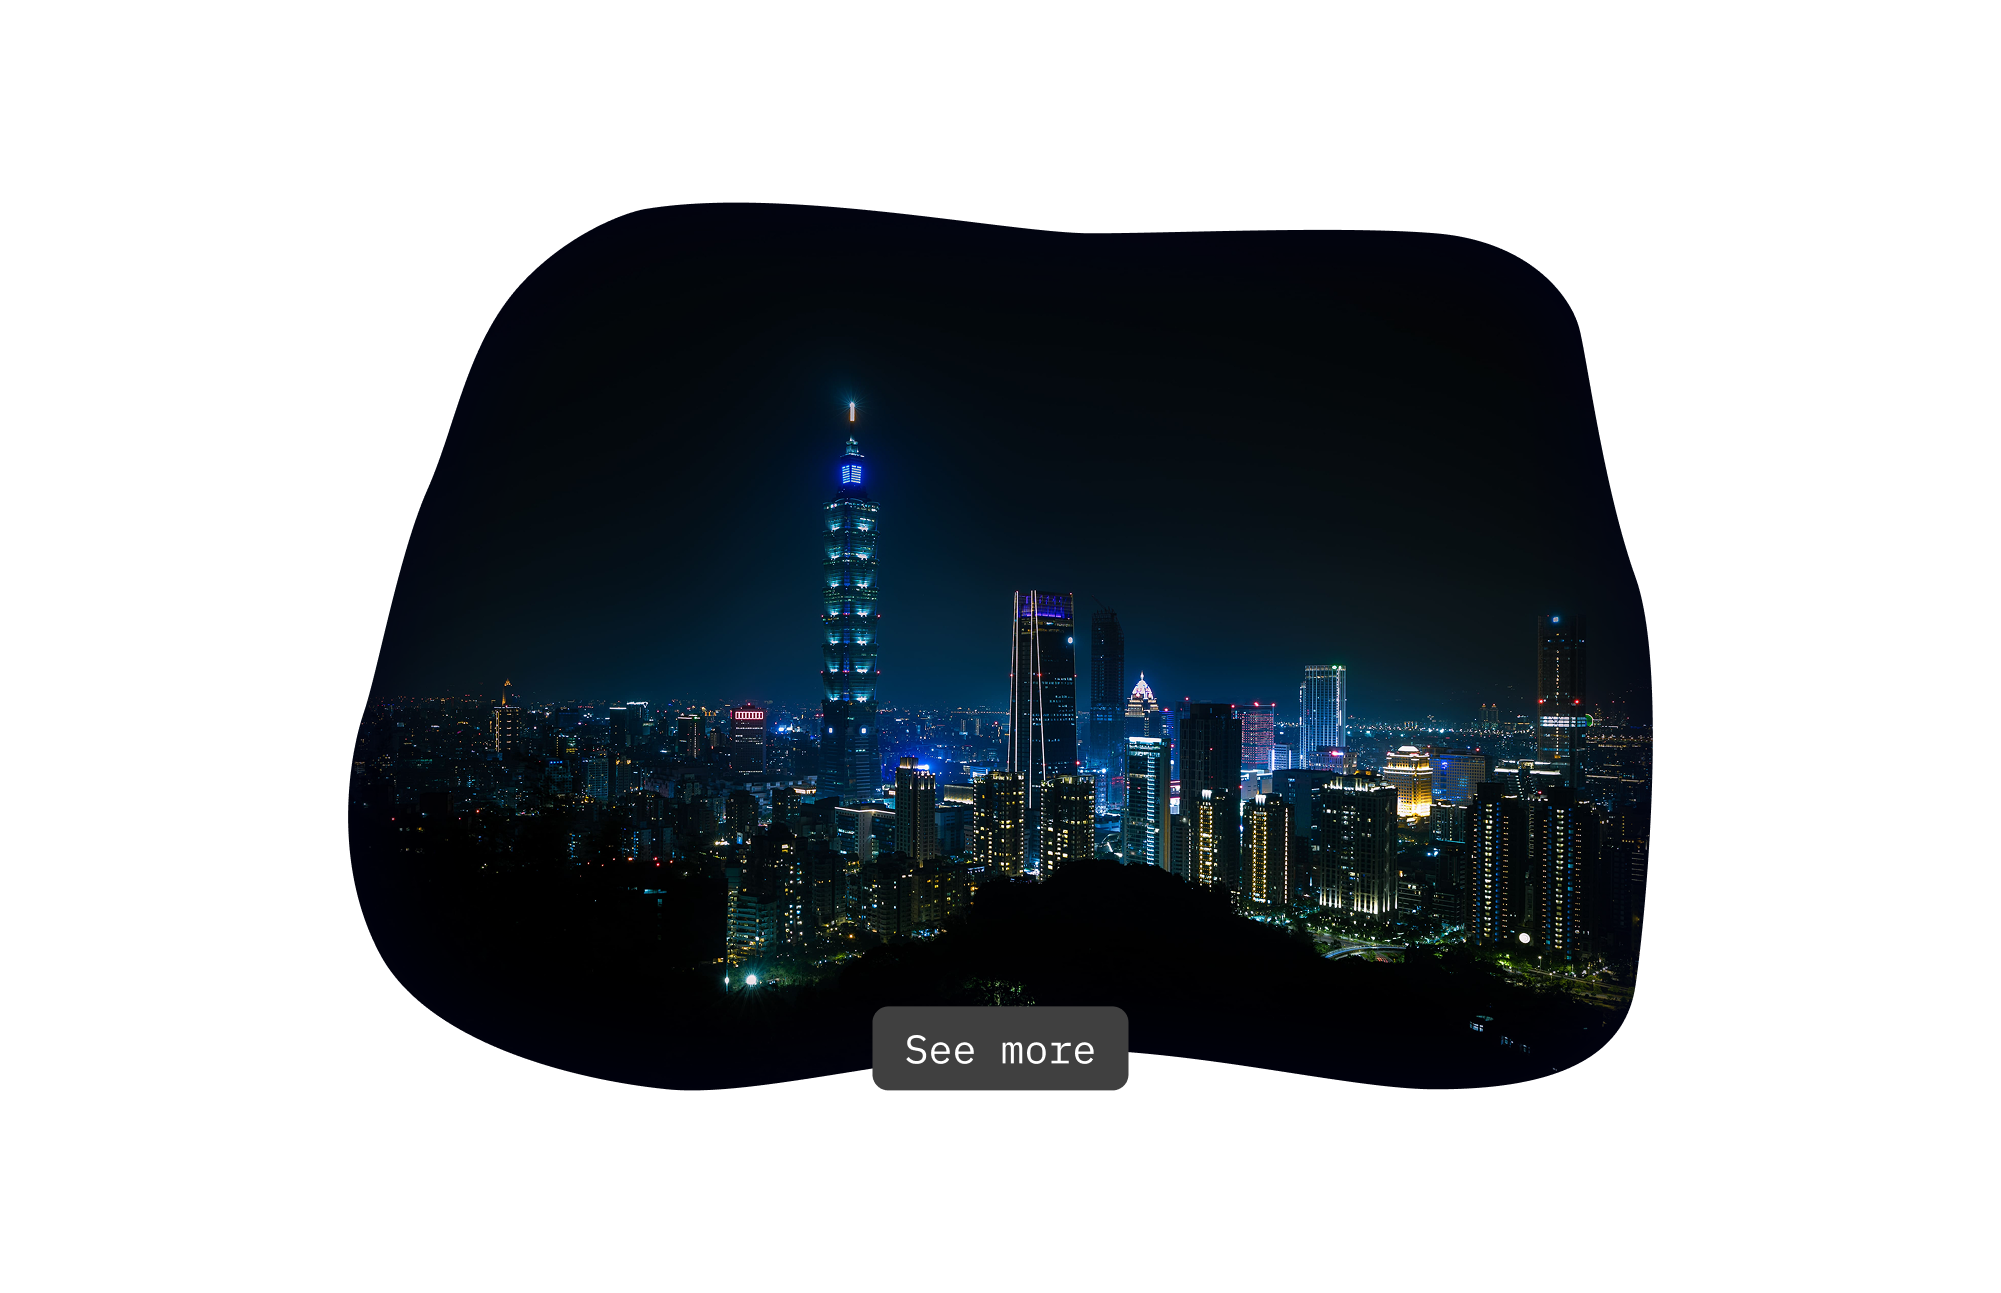
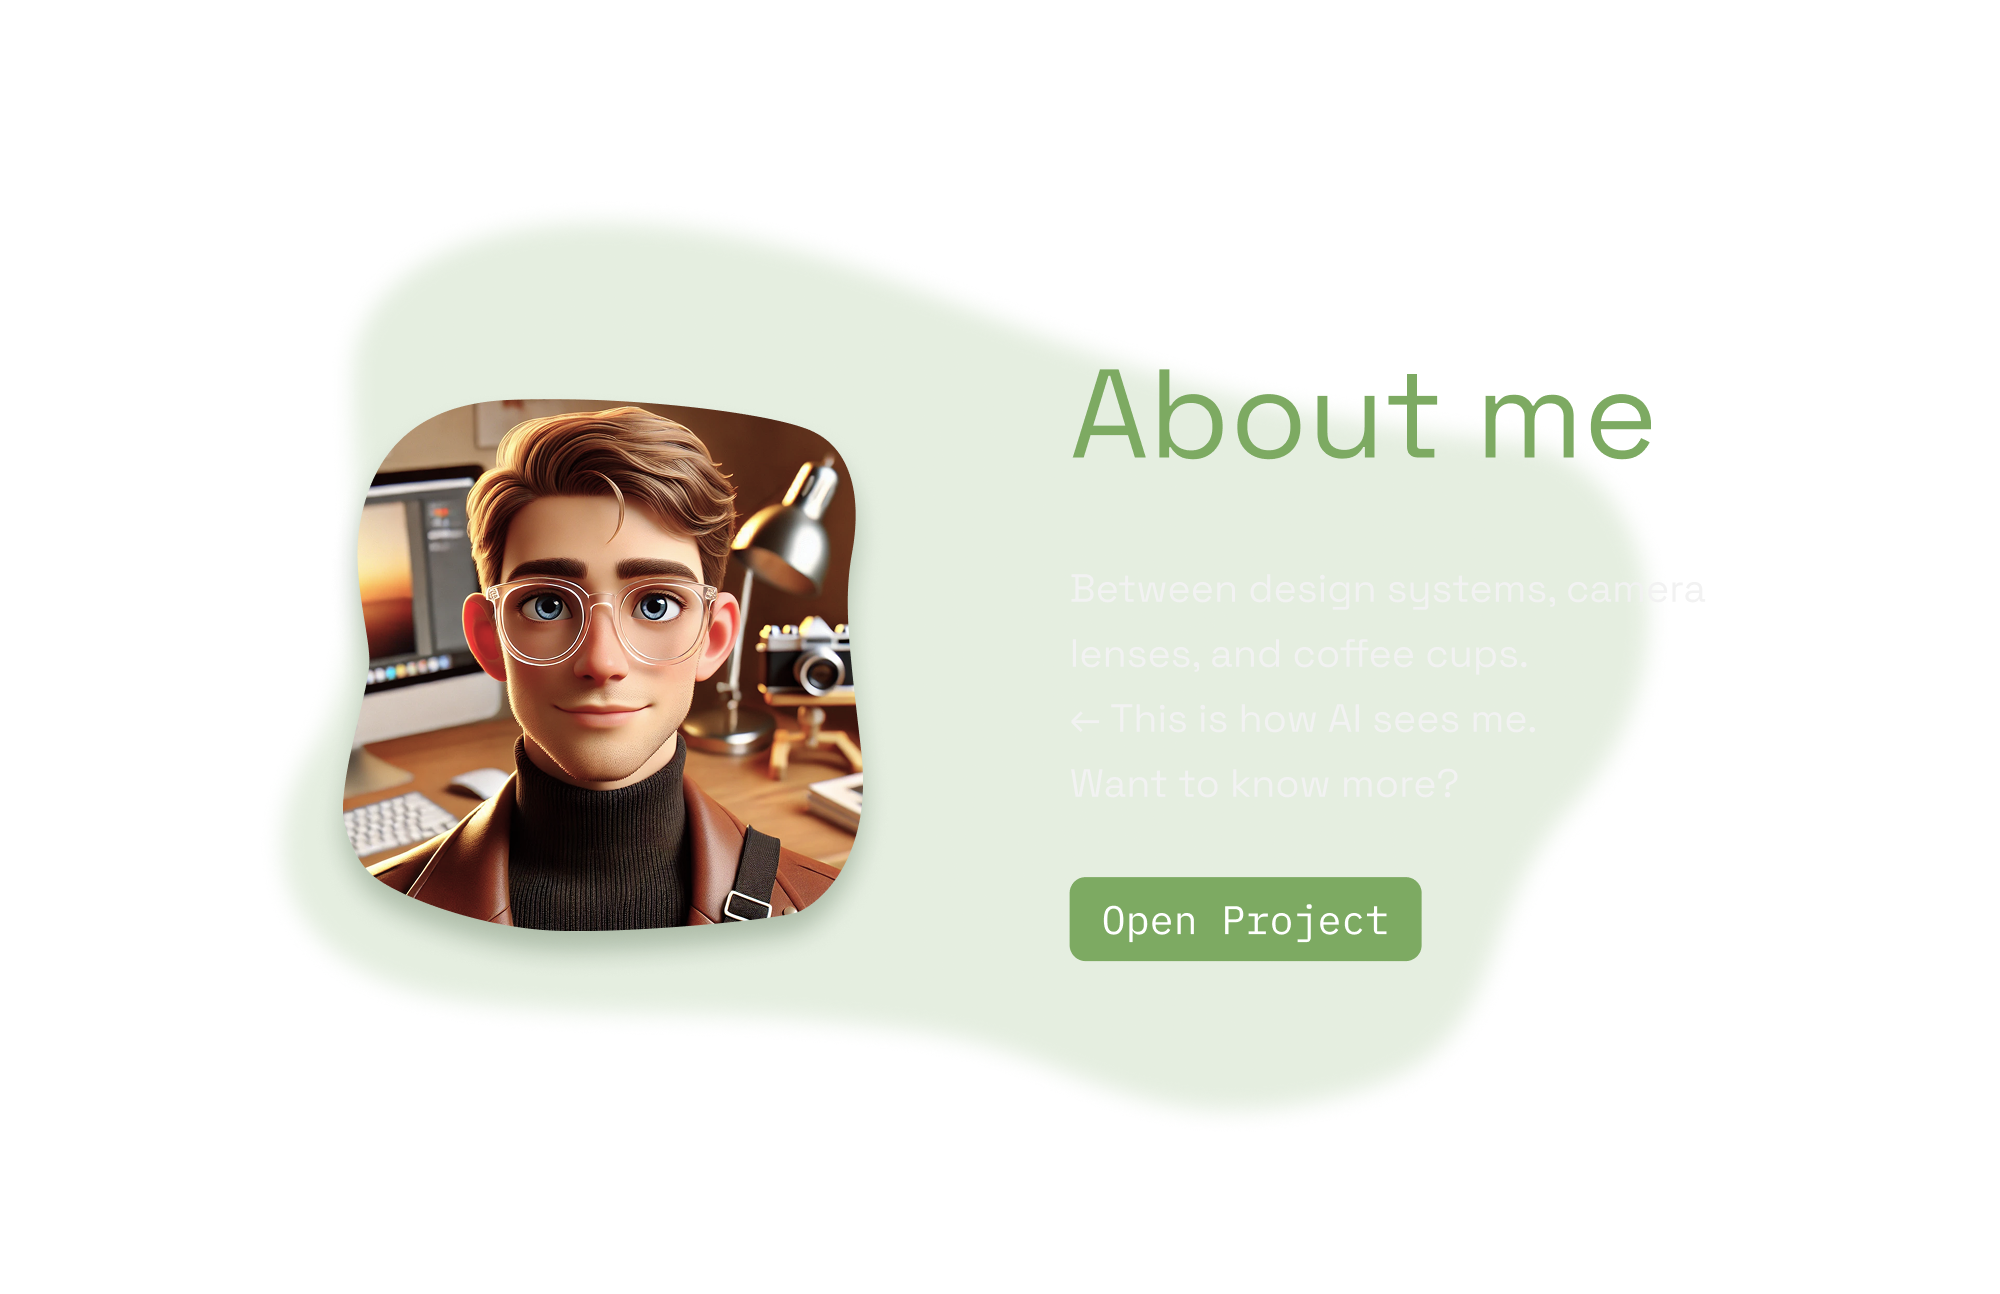
Füge "Back to Start"-Button hinzu: erstelle Button mit Text und Interaktionslogik, optimiere Hover-Effekte

diff --git a/src/lib/Stage.svelte b/src/lib/Stage.svelte
@@ -510,12 +510,50 @@ function loadAppropriateTextures() {
       // corridorLines = new THREE.LineSegments(corridorGeometry, corridorMaterial);
       // scene.add(corridorLines);
 
-      // Rückwand
-      const backWallGeo = new THREE.PlaneGeometry(10, 5);
-      const backWallMat = new THREE.MeshBasicMaterial({ color: 0x010300 });
-      backWall = new THREE.Mesh(backWallGeo, backWallMat);
-      backWall.position.set(0, 0, -40);
-      scene.add(backWall);
+      // Erstellung eines kleineren "Back to Start"-Buttons
+const buttonCanvas = document.createElement('canvas');
+const buttonContext = buttonCanvas.getContext('2d');
+buttonCanvas.width = 512; 
+buttonCanvas.height = 256;
+
+// Button mit Text zeichnen - bleibt gleich
+buttonContext.fillStyle = "rgba(6, 0, 61, 0.7)"; // Dunkelblau mit leichter Transparenz
+buttonContext.fillRect(0, 0, 512, 256);
+buttonContext.strokeStyle = "rgba(255, 255, 255, 0.8)";
+buttonContext.lineWidth = 4;
+buttonContext.strokeRect(10, 10, 492, 236);
+
+// Text zeichnen
+buttonContext.font = "bold 40px 'IBM Plex Mono'";
+buttonContext.textAlign = "center";
+buttonContext.textBaseline = "middle";
+buttonContext.fillStyle = "#FFFFFF";
+buttonContext.fillText("Back to Start", 256, 128);
+
+// Textur erstellen
+const buttonTexture = new THREE.CanvasTexture(buttonCanvas);
+buttonTexture.colorSpace = THREE.SRGBColorSpace;
+buttonTexture.anisotropy = renderer.capabilities.getMaxAnisotropy();
+
+// Button-Mesh erstellen - KLEINER machen
+const backButtonGeo = new THREE.PlaneGeometry(0.5, 0.25); // von 4x2 zu 3x1.5
+const backButtonMat = new THREE.MeshBasicMaterial({ 
+  map: buttonTexture, 
+  transparent: true,
+  alphaTest: 0.01,
+  depthTest: false // Stellt sicher, dass der Button immer gerendert wird
+});
+const backButton = new THREE.Mesh(backButtonGeo, backButtonMat);
+backButton.position.set(0, 0, -38);
+backButton.name = "backButton"; // Name für leichteres Debugging
+scene.add(backButton);
+
+// Die Variable backWall weiterhin verfügbar halten, aber unsichtbar machen
+backWall = new THREE.Mesh(
+  new THREE.PlaneGeometry(0.1, 0.1),
+  new THREE.MeshBasicMaterial({ visible: false })
+);
+scene.add(backWall);
 
 
       // Factories initialisieren
@@ -989,17 +1027,93 @@ const pngMaterialFoto = new THREE.MeshBasicMaterial({
 
    // Die alte handleCanvasClick-Funktion kann durch diese ersetzt werden:
    function handleCanvasClick(event) {
-      if (clickHandler) {
-        clickHandler.handleClick(event, coverGroups, imageMeshes);
-      }
+  if (!scene) return;
+  
+  // Raycasting für Button und andere Objekte
+  const rect = container.getBoundingClientRect();
+  const x = ((event.clientX - rect.left) / container.clientWidth) * 2 - 1;
+  const y = -((event.clientY - rect.top) / container.clientHeight) * 2 + 1;
+  
+  const raycaster = new THREE.Raycaster();
+  raycaster.setFromCamera({ x, y }, camera);
+  
+  // Debug-Ausgabe aller getroffenen Objekte
+  const allIntersects = raycaster.intersectObjects(scene.children, true);
+  console.log("Getroffene Objekte:", allIntersects.map(i => i.object.name || "Unbenannt"));
+  
+  // Explizit nach dem Button suchen
+  const backButtonObj = scene.getObjectByName("backButton");
+  if (backButtonObj) {
+    const buttonIntersects = raycaster.intersectObject(backButtonObj);
+    if (buttonIntersects.length > 0) {
+      console.log("Back to Start Button geklickt");
+      // Zurück zum Start navigieren
+      navigateToSection("intro");
+      return;
     }
+  } else {
+    console.warn("Back-Button nicht in der Szene gefunden!");
+  }
+  
+  // Normaler Click-Handler für andere Objekte
+  if (clickHandler) {
+    clickHandler.handleClick(event, coverGroups, imageMeshes);
+  }
+}
 
-   // Optional: Auch die onMouseMove-Funktion könnte aktualisiert werden:
-   function onMouseMove(event) {
-      if (clickHandler) {
-        clickHandler.handleHover(event, coverGroups, imageMeshes, container);
+
+function onMouseMove(event) {
+  // Erst prüfen, ob der Mauszeiger über dem Button schwebt
+  const rect = container.getBoundingClientRect();
+  const x = ((event.clientX - rect.left) / container.clientWidth) * 2 - 1;
+  const y = -((event.clientY - rect.top) / container.clientHeight) * 2 + 1;
+  
+  const raycaster = new THREE.Raycaster();
+  raycaster.setFromCamera({ x, y }, camera);
+  
+  // Button-Objekt finden
+  const backButtonObj = scene.getObjectByName("backButton");
+  if (backButtonObj) {
+    const buttonIntersects = raycaster.intersectObject(backButtonObj);
+    if (buttonIntersects.length > 0) {
+      // Mauszeiger auf Pointer ändern
+      container.style.cursor = "pointer";
+      
+      // Optional: Button visuell hervorheben
+      if (backButtonObj.material && !backButtonObj.userData.isHighlighted) {
+        backButtonObj.userData.isHighlighted = true;
+        backButtonObj.material.opacity = 1.0; // Volle Opazität
+        gsap.to(backButtonObj.scale, { 
+          x: 1.1, 
+          y: 1.1, 
+          z: 1.1, 
+          duration: 0.2 
+        });
       }
+      
+      // Frühzeitig beenden, damit der normale Hover-Handler nicht ausgeführt wird
+      return;
+    } else if (backButtonObj.userData.isHighlighted) {
+      // Zurücksetzen, wenn nicht mehr über dem Button
+      backButtonObj.userData.isHighlighted = false;
+      backButtonObj.material.opacity = 0.9; // Normale Opazität wiederherstellen
+      gsap.to(backButtonObj.scale, { 
+        x: 1, 
+        y: 1, 
+        z: 1, 
+        duration: 0.2 
+      });
     }
+  }
+  
+  // Cursor zurücksetzen, wenn nicht über interaktiven Elementen
+  container.style.cursor = "auto";
+  
+  // Normaler Hover-Handler für andere Objekte
+  if (clickHandler) {
+    clickHandler.handleHover(event, coverGroups, imageMeshes, container);
+  }
+}
 
    // ----------------------------------------------------------------------------
    // Canvas-Update-Funktionen für die einzelnen Abschnitte
